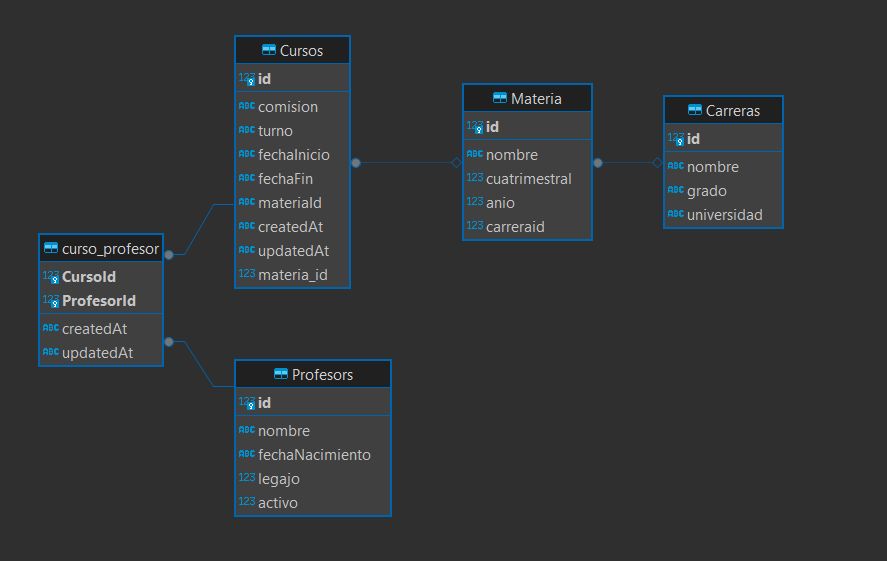
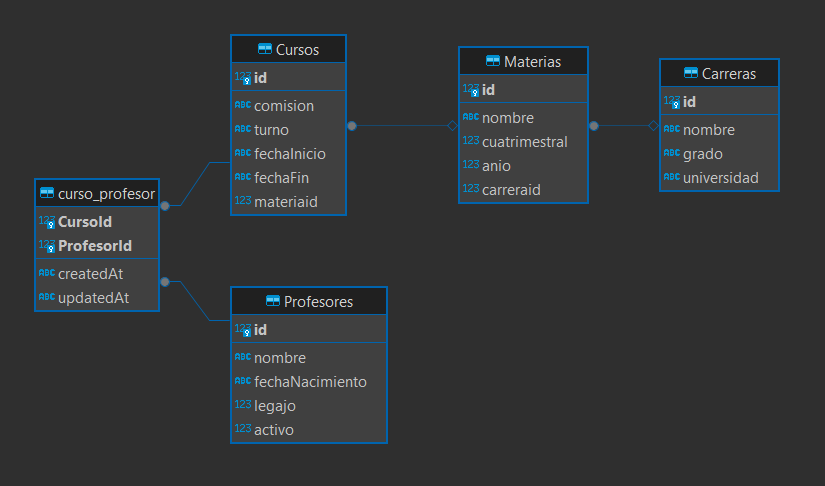
revision final

diff --git a/src/schemas/profesor.schema.js b/src/schemas/profesor.schema.js
@@ -9,7 +9,7 @@ const profesorSchema = Joi.object().keys({
         "any.required": "nombre es requerido"
     }),
     
-    fechaNacimiento: Joi.string().custom(validateDate).messages({
+    fechaNacimiento: Joi.string().custom(validateDate).required().messages({
         "any.custom": "El formato de la fecha debe ser YYYY-MM-DD",
         "any.required": "El campo fecha de nacimiento es obligatorio"
     }),
@@ -19,7 +19,7 @@ const profesorSchema = Joi.object().keys({
         "number.max": `el legajo debe tener como máximo 5 números.`
     }),
 
-    activo: Joi.boolean().required().messages({
+    activo: Joi.number().integer().required().min(0).max(1).messages({
         "any.required": "debe indicar si está activo o no."
     })
 })

diff --git a/src/controllers/curso.controller.js b/src/controllers/curso.controller.js
@@ -88,12 +88,12 @@ const crearAsociacionCursoProfesor = async (req, res) => {
 
         let profesores = await Profesor.findAll({ where: { id: profesorid } });
 
-        let asociacionExiste = await curso.hasProfesors(profesores);
+        let asociacionExiste = await curso.hasProfesores(profesores);
         if (asociacionExiste) {
             return res.status(400).json({ error: "La asociación ya existe" });
         }
 
-        await curso.addProfesors(profesores);
+        await curso.addProfesores(profesores);
 
         res.status(201).json({ message: "Asociación creada con exito" });
     }

diff --git a/src/app.js b/src/app.js
@@ -26,7 +26,7 @@ app.listen(process.env.PORT, async () => {
     await db.sequelize.authenticate();
     // El método sync solo se usa en ambientes de desarrollo. No utilizar en produccion
     // porque borra todas las tablas y las vueve a crear
-    //await db.sequelize.sync({force:true});
+    // await db.sequelize.sync({force:true});
     /*  createCarrera("Introducción a Matemática","Primer año","UNAHUR"); //los creo solo para que haya algo apenas inicia la app, desp se puede borrar
       createCarrera("Estrategias de Persistencia","Segundo año","UNAHUR"); */
   } catch (error) {

diff --git a/src/controllers/carrera.controller.js b/src/controllers/carrera.controller.js
@@ -15,7 +15,7 @@ controller.getAllCarreras = getAllCarreras;
 const carreraById = async (req, res) => {
     const id = req.params.id
     try {
-        const result = await Carrera.findByPk((id,
+        const result = await Carrera.findByPk(id,
         {
             where: {
                 id: id,
@@ -25,7 +25,7 @@ const carreraById = async (req, res) => {
                 as: 'materias'
             }]
         }
-        ));
+        );
         res.status(200).json(result);
     } catch (error) {
         res.status(404).json(`La carrera con id: ` + $(id) + ` no existe.`)

diff --git a/src/routes/profesor.route.js b/src/routes/profesor.route.js
@@ -13,7 +13,7 @@ route.post('/profesores', middlewareProfesor.validaSchema(profesorSchema), profe
 
 route.put('/profesores/:id', middlewareProfesor.existsById(Profesor), middlewareProfesor.validaSchema(profesorSchema), profesorController.modificarProfesor)
 
-route.delete('/profesores/:id', profesorController.borrarProfesor)
+route.delete('/profesores/:id', middlewareProfesor.existsById(Profesor), profesorController.borrarProfesor)
 
 route.get('/profesores/:id/cursos', profesorController.obtenerCursosDeProfesor)
 

diff --git a/src/controllers/materia.controller.js b/src/controllers/materia.controller.js
@@ -76,7 +76,7 @@ const deleteMateria = async (req, res) => {
         if(result)
             res.status(200).json(`La materia con id: ${id} ha sido eliminada correctamente`)
         else
-            res.status(404).json(`La materia con id: ${id} no existe`)
+            res.status(404).json({ error: `La materia con id: ${id} no existe`})
     } catch (error) {
         res.status(500).json({ error: 'Internal Server Error' })
       }

diff --git a/src/middlewares/exists.middleware.js b/src/middlewares/exists.middleware.js
@@ -4,6 +4,7 @@ const existsById = (Model) => {
         const id = req.params.id
         const instancia = await Model.findByPk(id)
         const modelName = Model.modelName || (Model.options.name && Model.options.name.singular);
+        console.log(Model.options.name)
         if (!instancia) {
             return res.status(404).json({
                 mensaje: `El ${modelName} con id ${id} no existe`

diff --git a/src/db/models/curso.js b/src/db/models/curso.js
@@ -4,7 +4,7 @@ const {
 } = require('sequelize');
 module.exports = (sequelize, DataTypes) => {
   class Curso extends Model {
-    static associate(models) { // LO AGREGUÉ PERO DUDO QUE ESTE BIEN, DEBEMOS REVISAR LA LOGICA
+    static associate(models) { 
       Curso.belongsTo(models.Materia, {
         as: 'materias',
         foreignKey: 'materiaid',

diff --git a/src/db/models/profesor.js b/src/db/models/profesor.js
@@ -25,8 +25,8 @@ module.exports = (sequelize, DataTypes) => {
     },
     nombre: DataTypes.STRING,
     fechaNacimiento: DataTypes.DATEONLY,
-    legajo: DataTypes.NUMBER,
-    activo: DataTypes.BOOLEAN,
+    legajo: DataTypes.INTEGER,
+    activo: DataTypes.TINYINT,
   }, {
     sequelize,
     modelName: 'Profesor',

diff --git a/src/db/migrations/20240522181312-create-profesor.js b/src/db/migrations/20240522181312-create-profesor.js
@@ -16,10 +16,10 @@ module.exports = {
         type: Sequelize.DATEONLY
       },
       legajo: {
-        type: Sequelize.NUMBER
+        type: Sequelize.INTEGER
       },
       activo: {
-        type: Sequelize.BOOLEAN
+        type: Sequelize.TINYINT
       },
       createdAt: {
         allowNull: false,

diff --git a/src/db/models/materia.js b/src/db/models/materia.js
@@ -28,6 +28,7 @@ module.exports = (sequelize, DataTypes) => {
     {
       sequelize,
       modelName: "Materia",
+      tableName: "Materias",
       timestamps: false,
 
     }

diff --git a/README.md b/README.md
@@ -15,7 +15,7 @@ npm i sequelize sqlite3
 npm i -D sequelize -cli
 ```
 
-Dentro de la carpeta raíz TP-MTON-GRUPO-3 se debe generar un archivo llamado ".env" y dentro se copiará el siguiente código:
+Para probar la aplicación con sqlite, dentro de la carpeta raíz TP-MTON-GRUPO-3 se debe generar un archivo llamado ".env" y en él se copiará el siguiente código:
 
 ```
 PORT = 3000
@@ -25,6 +25,26 @@ DB_DATABASE=dataStore
 DB_HOST=dbstore/database.sqlite
 DIALECT=sqlite
 ```
+
+Para probar la aplicación con mysql, dentro de la carpeta raíz TP-MTON-GRUPO-3 se debe generar un archivo llamado ".env" y en él se copiará el siguiente código:
+
+```
+PORT=3000
+DB_USERNAME=root
+DB_PASSWORD=password
+DB_DATABASE=dataStore
+DB_HOST=localhost
+DB_PORT=3307
+DIALECT=mysql
+```
+
+Además, tiene que ejecutarse el siguiente comando para iniciar el contenedor de mysql:
+
+```
+docker run --name mysqlContainer -e MYSQL_ROOT_PASSWORD=password -d -p 3307:3306 mysql 
+```
+
+Es importante que la base de datos esté creada con el nombre de dataStore.
 
 ## Diagrama entidad-relación
 
